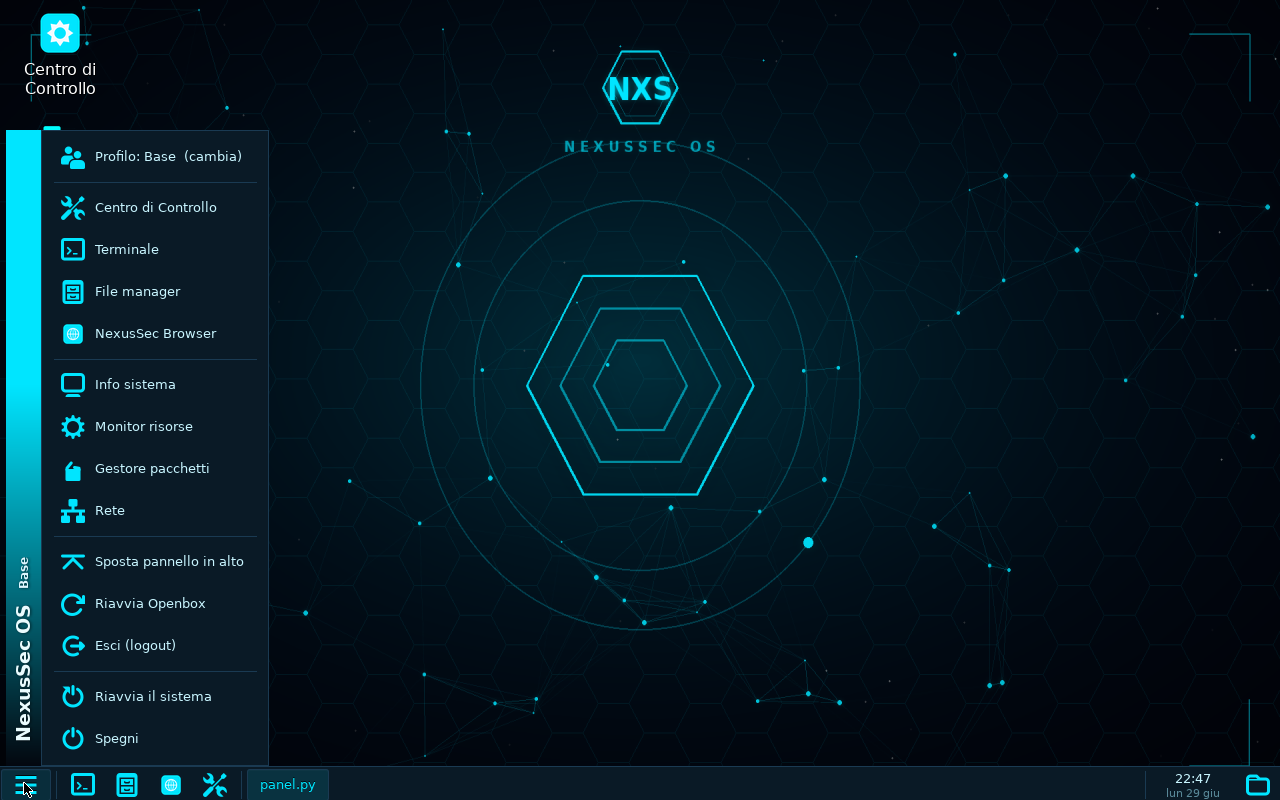
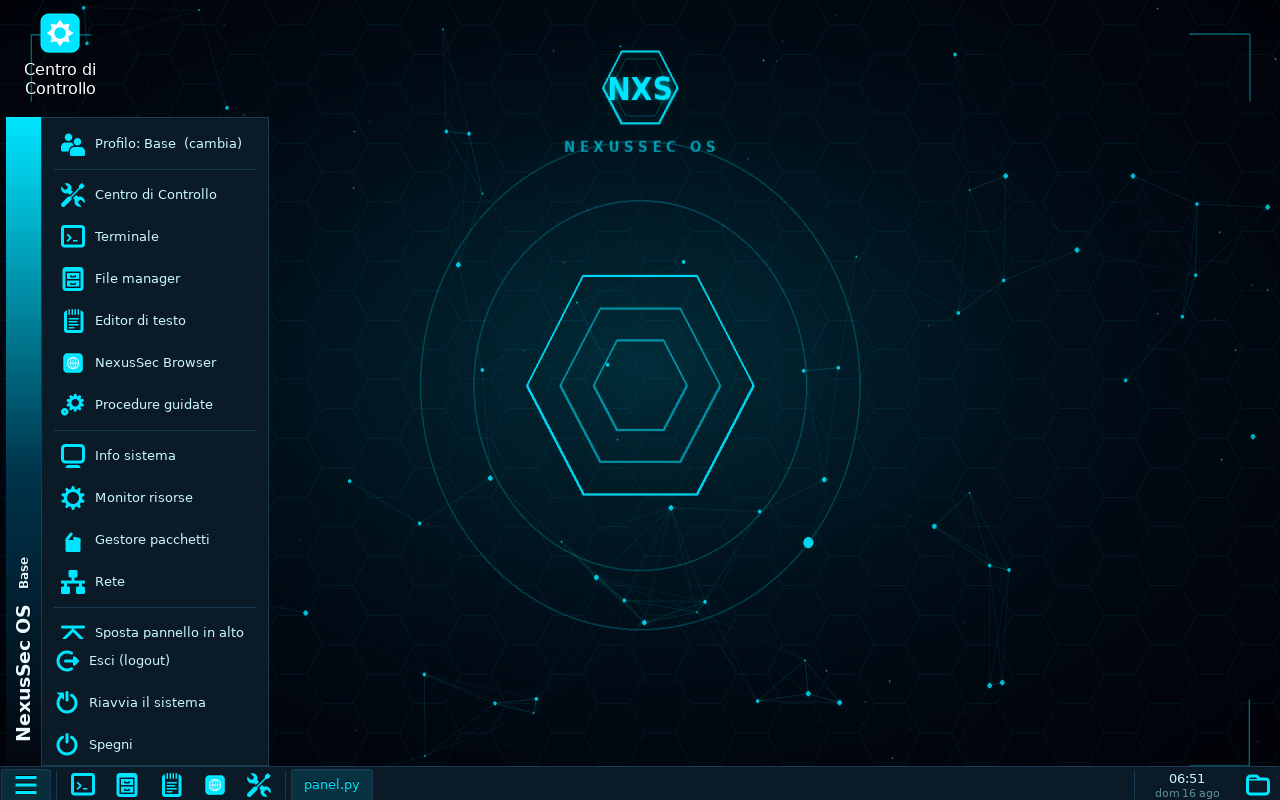
Screenshot: menu reordered (Profilo in cima), categorie pentest, desktop pentest
Catturati dal boot reale della ISO 260815 in QEMU:
- menu-base: voce Profilo (cambia) + utilita' base subito visibili senza scorrere
- menu-pentest: categorie strumenti del profilo (conteggi per categoria)
- menu-pentest-expanded: categoria Exploitation espansa (stato on-demand)
- desktop-pentest: sfondo radar/accent rosso del profilo attivo

Changed region(s): [[0.0, 0.125, 0.1875, 0.9375], [0.125, 0.9375, 0.3125, 1.0], [0.9062, 0.9688, 0.9375, 1.0]]

diff --git a/README.md b/README.md
@@ -76,11 +76,19 @@ accent del pannello e tema delle icone** (anche cartelle e browser).
 |---|---|---|
 | ![forensics](screenshots/desktop-forensics.png) | ![osint](screenshots/desktop-osint.png) | ![web](screenshots/desktop-web.png) |
 
-Menu start con ricerca, strumenti raggruppati per categoria e stato installato:
+Menu start con ricerca, strumenti raggruppati per categoria e stato installato.
+La voce **Profilo (cambia)** e le utilita' di sistema restano sempre in cima,
+visibili subito senza scorrere; le categorie di strumenti del profilo attivo
+seguono piu' in basso (a fisarmonica, con il conteggio per categoria):
 
-| Menu (Base) | Menu (Pen Testing) |
+| Menu (Base) | Menu (Pen Testing) — categorie |
 |---|---|
 | ![menu-base](screenshots/menu-base.png) | ![menu-pentest](screenshots/menu-pentest.png) |
+
+Ogni categoria si espande al clic e mostra gli strumenti (pallino = da
+installare, si installa al primo avvio):
+
+![menu-pentest-expanded](screenshots/menu-pentest-expanded.png)
 
 ## Repository pacchetti (apk)
 
